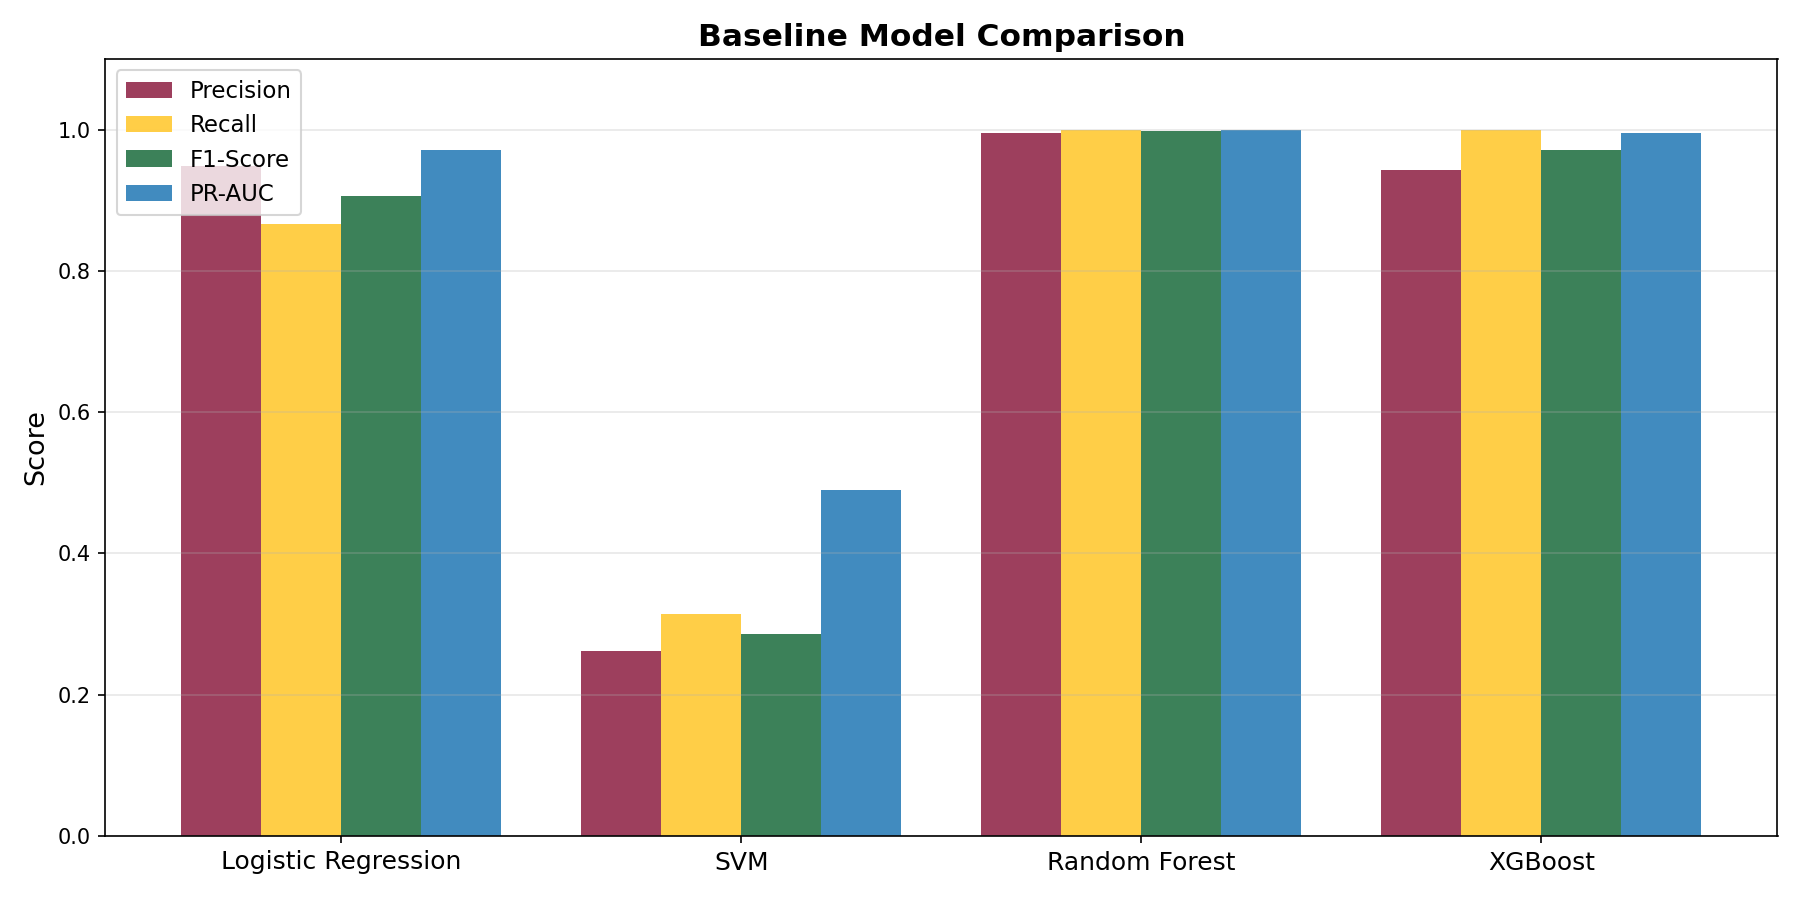
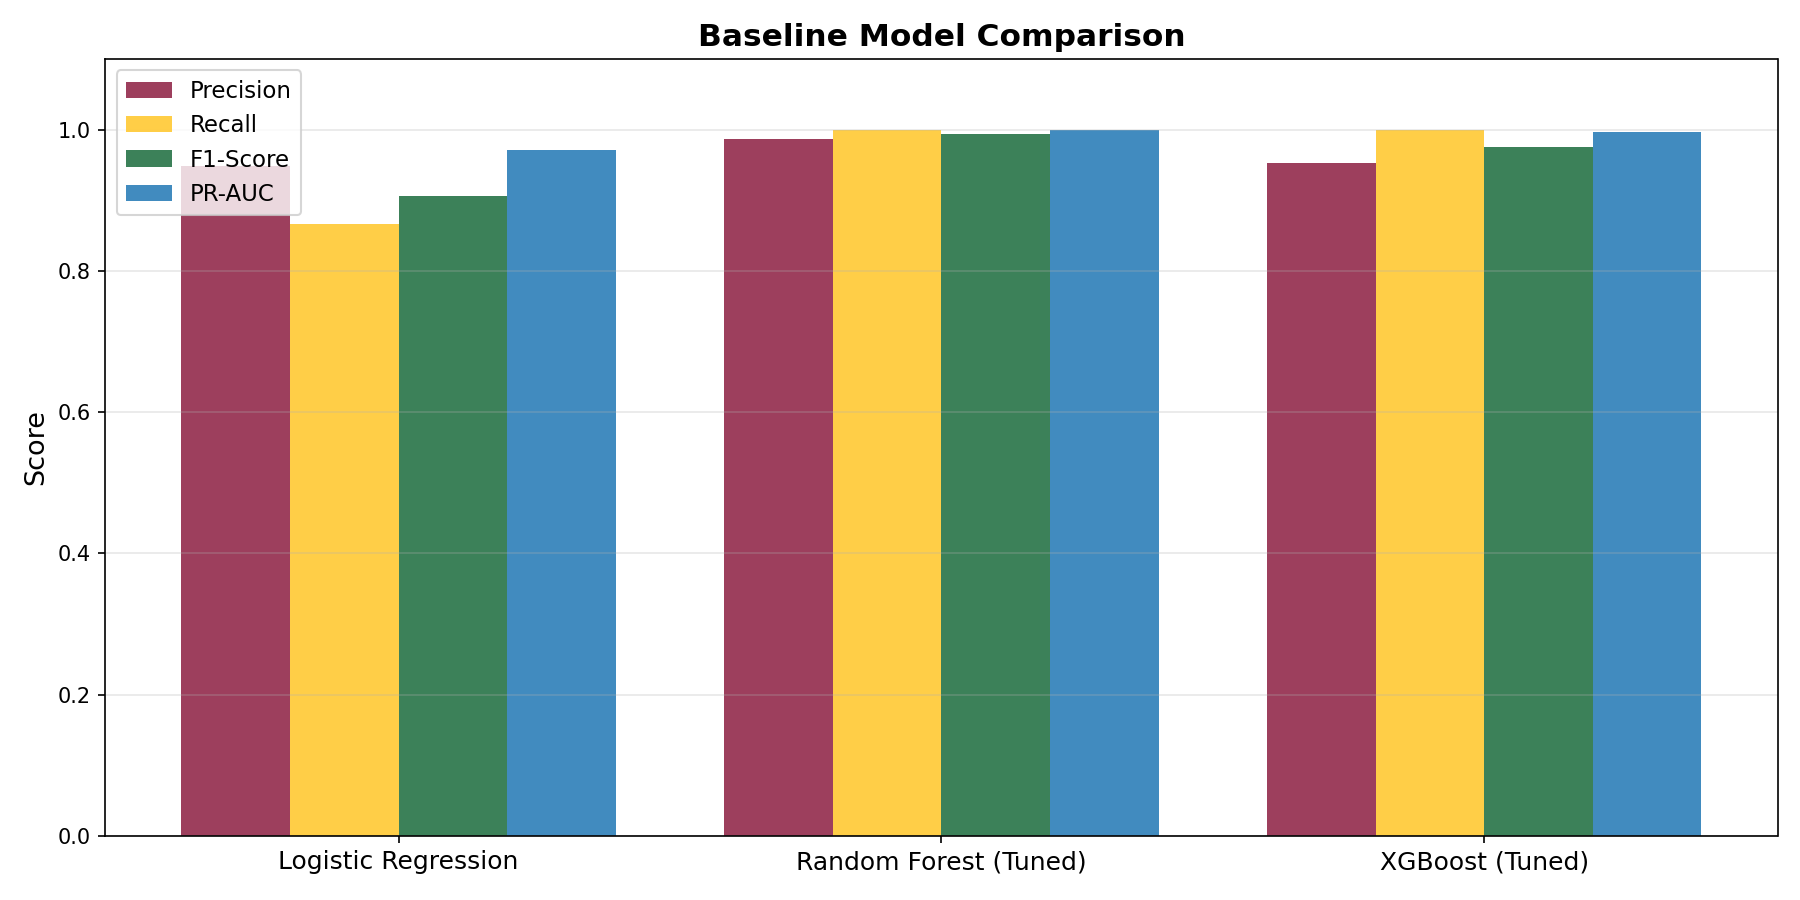
Added hyperparameter tuning, updated main.py to run full pipeline

diff --git a/models.py b/models.py
@@ -2,8 +2,9 @@
 models.py
 ----------
 Baseline supervised ML models for fraud detection.
-Logistic Regression, SVM, Random Forest, XGBoost.
+Logistic Regression, Random Forest, XGBoost.
 Evaluated using Precision, Recall, F1-Score, and PR-AUC.
+Includes hyperparameter tuning via RandomizedSearchCV.
 """
 
 import os
@@ -17,6 +18,7 @@ import matplotlib.pyplot as plt
 from sklearn.linear_model import LogisticRegression
 from sklearn.ensemble import RandomForestClassifier
 from xgboost import XGBClassifier
+from sklearn.model_selection import RandomizedSearchCV
 
 from sklearn.metrics import (
     precision_score, recall_score, f1_score,
@@ -29,11 +31,9 @@ from preprocessing import run_preprocessing
 
 warnings.filterwarnings("ignore")
 
-# ---------------------------------------------------------------
-# Output directory for plots
-# ---------------------------------------------------------------
 RESULTS_DIR = os.path.join(os.path.dirname(__file__), "results")
 os.makedirs(RESULTS_DIR, exist_ok=True)
+RANDOM_STATE = 42
 
 
 # ---------------------------------------------------------------
@@ -45,13 +45,9 @@ def evaluate_model(name, model, X_train, X_test, y_train, y_test):
     print(f"  {name}")
     print(f"{'='*60}")
 
-    # Train
     model.fit(X_train, y_train)
-
-    # Predict
     y_pred = model.predict(X_test)
 
-    # Probability scores for PR-AUC
     if hasattr(model, "predict_proba"):
         y_scores = model.predict_proba(X_test)[:, 1]
     elif hasattr(model, "decision_function"):
@@ -59,7 +55,6 @@ def evaluate_model(name, model, X_train, X_test, y_train, y_test):
     else:
         y_scores = y_pred
 
-    # Metrics
     precision = precision_score(y_test, y_pred, zero_division=0)
     recall    = recall_score(y_test, y_pred, zero_division=0)
     f1        = f1_score(y_test, y_pred, zero_division=0)
@@ -82,12 +77,84 @@ def evaluate_model(name, model, X_train, X_test, y_train, y_test):
 
 
 # ---------------------------------------------------------------
-# 2. Plot PR curves for all models
+# 2. Hyperparameter Tuning
+# ---------------------------------------------------------------
+def tune_random_forest(X_train, y_train):
+    """Tune Random Forest using RandomizedSearchCV."""
+    print("\n[INFO] Tuning Random Forest...")
+
+    param_dist = {
+        "n_estimators"      : [100, 200, 300],
+        "max_depth"         : [None, 10, 20, 30],
+        "min_samples_split" : [2, 5, 10],
+        "min_samples_leaf"  : [1, 2, 4],
+        "max_features"      : ["sqrt", "log2"],
+    }
+
+    rf = RandomForestClassifier(
+        class_weight="balanced",
+        random_state=RANDOM_STATE,
+        n_jobs=-1
+    )
+
+    search = RandomizedSearchCV(
+        rf, param_dist,
+        n_iter=10,
+        scoring="average_precision",
+        cv=3,
+        random_state=RANDOM_STATE,
+        n_jobs=-1,
+        verbose=1
+    )
+
+    search.fit(X_train, y_train)
+    print(f"  Best RF params : {search.best_params_}")
+    print(f"  Best RF PR-AUC : {search.best_score_:.4f}")
+    return search.best_estimator_
+
+
+def tune_xgboost(X_train, y_train):
+    """Tune XGBoost using RandomizedSearchCV."""
+    print("\n[INFO] Tuning XGBoost...")
+
+    param_dist = {
+        "n_estimators"  : [100, 200, 300],
+        "max_depth"     : [3, 5, 7, 9],
+        "learning_rate" : [0.01, 0.05, 0.1, 0.2],
+        "subsample"     : [0.6, 0.8, 1.0],
+        "colsample_bytree": [0.6, 0.8, 1.0],
+        "scale_pos_weight": [81],
+    }
+
+    xgb = XGBClassifier(
+        random_state=RANDOM_STATE,
+        eval_metric="aucpr",
+        verbosity=0
+    )
+
+    search = RandomizedSearchCV(
+        xgb, param_dist,
+        n_iter=10,
+        scoring="average_precision",
+        cv=3,
+        random_state=RANDOM_STATE,
+        n_jobs=-1,
+        verbose=1
+    )
+
+    search.fit(X_train, y_train)
+    print(f"  Best XGB params : {search.best_params_}")
+    print(f"  Best XGB PR-AUC : {search.best_score_:.4f}")
+    return search.best_estimator_
+
+
+# ---------------------------------------------------------------
+# 3. Plot PR curves
 # ---------------------------------------------------------------
 def plot_pr_curves(results, y_test):
     """Plot Precision-Recall curves for all models."""
     plt.figure(figsize=(10, 6))
-    colors = ["#8C1D40", "#FFC627", "#1A6B3C", "#1F77B4"]
+    colors = ["#8C1D40", "#FFC627", "#1A6B3C"]
 
     for i, res in enumerate(results):
         precision_vals, recall_vals, _ = precision_recall_curve(
@@ -113,7 +180,7 @@ def plot_pr_curves(results, y_test):
 
 
 # ---------------------------------------------------------------
-# 3. Plot comparison bar chart
+# 4. Plot comparison bar chart
 # ---------------------------------------------------------------
 def plot_comparison(summary_df):
     """Bar chart comparing all models across metrics."""
@@ -143,12 +210,14 @@ def plot_comparison(summary_df):
 
 
 # ---------------------------------------------------------------
-# 4. Plot confusion matrices
+# 5. Plot confusion matrices
 # ---------------------------------------------------------------
 def plot_confusion_matrices(results, y_test):
     """Plot confusion matrix for each model."""
-    fig, axes = plt.subplots(2, 2, figsize=(12, 10))
-    axes = axes.flatten()
+    n = len(results)
+    fig, axes = plt.subplots(1, n, figsize=(6 * n, 5))
+    if n == 1:
+        axes = [axes]
 
     for i, res in enumerate(results):
         y_pred = (res["y_scores"] >= 0.5).astype(int)
@@ -170,12 +239,11 @@ def plot_confusion_matrices(results, y_test):
 
 
 # ---------------------------------------------------------------
-# 5. Run all baseline models
+# 6. Run all baseline models
 # ---------------------------------------------------------------
 def run_baseline_models():
-    """Full pipeline: preprocess → train → evaluate → plot."""
+    """Full pipeline: preprocess → tune → train → evaluate → plot."""
 
-    # Load preprocessed data
     print("\nLoading preprocessed data...")
     prep = run_preprocessing(balance_strategy="oversample")
 
@@ -184,29 +252,30 @@ def run_baseline_models():
     y_train = prep["y_train"]
     y_test  = prep["y_test"]
 
-    # Define models
+    print(f"\n{'='*60}")
+    print("  HYPERPARAMETER TUNING")
+    print(f"{'='*60}")
+
+    # Tune RF and XGBoost
+    best_rf  = tune_random_forest(X_train, y_train)
+    best_xgb = tune_xgboost(X_train, y_train)
+
+    # Define models — LR with defaults, RF and XGBoost tuned
     models = [
         ("Logistic Regression", LogisticRegression(
-            max_iter=1000, class_weight="balanced", random_state=42
+            max_iter=1000, class_weight="balanced", random_state=RANDOM_STATE
         )),
-        ("Random Forest", RandomForestClassifier(
-            n_estimators=100, class_weight="balanced",
-            random_state=42, n_jobs=-1
-        )),
-        ("XGBoost", XGBClassifier(
-            n_estimators=100, scale_pos_weight=81,
-            random_state=42, eval_metric="aucpr",
-            verbosity=0
-        )),
+        ("Random Forest (Tuned)", best_rf),
+        ("XGBoost (Tuned)", best_xgb),
     ]
 
-    # Train and evaluate each model
+    # Train and evaluate
     results = []
     for name, model in models:
         res = evaluate_model(name, model, X_train, X_test, y_train, y_test)
         results.append(res)
 
-    # Summary table
+    # Summary
     summary_df = pd.DataFrame([
         {k: v for k, v in r.items() if k != "y_scores"}
         for r in results
@@ -217,12 +286,10 @@ def run_baseline_models():
     print(f"{'='*60}")
     print(summary_df.to_string(index=False))
 
-    # Save summary to CSV
     csv_path = os.path.join(RESULTS_DIR, "baseline_results.csv")
     summary_df.to_csv(csv_path, index=False)
     print(f"\n  [Saved] Results CSV → {csv_path}")
 
-    # Plots
     plot_pr_curves(results, y_test)
     plot_comparison(summary_df)
     plot_confusion_matrices(results, y_test)
@@ -230,8 +297,5 @@ def run_baseline_models():
     return summary_df
 
 
-# ---------------------------------------------------------------
-# Entry point
-# ---------------------------------------------------------------
 if __name__ == "__main__":
     run_baseline_models()

diff --git a/main.py b/main.py
@@ -3,61 +3,99 @@
 main.py
 --------
 End-to-end orchestration of the Banking Fraud Detection pipeline.
-
-Usage:
-    python main.py # currently, only download the BankSim dataset and perform EDA + balancing
+Runs all experiments in sequence:
+  Step 1 — Preprocessing + SMOTE-ENN + Time-based split
+  Step 2 — EDA visualizations
+  Step 3 — E1: Baseline ML models
+  Step 4 — E2: Graph construction + feature extraction
+  Step 5 — E2: Hybrid models
+  Step 6 — E4: Standalone GraphSAGE
+  Step 7 — E3: GraphSAGE embeddings → RF + MLP
+  Step 8 — E5: Clustering analysis
 """
 
-import argparse
-import sys
 import warnings
-
-import matplotlib
-matplotlib.use("Agg")  # non-interactive backend for saving plots
-
 warnings.filterwarnings("ignore")
 
-from preprocessing import run_preprocessing
-
-
-def parse_args() -> argparse.Namespace:
-    parser = argparse.ArgumentParser(
-        description="Banking Fraud Detection — Baseline vs Graph-Enhanced Models"
-    )
-    
-    parser.add_argument(
-        "--data",
-        type=str,
-        default=None,
-        help="Path to BankSim CSV file (default: auto-download)",
-    )
-    
-    parser.add_argument(
-        "--balance",
-        type=str,
-        choices=["oversample", "undersample"],
-        default="oversample",
-        help="Class balancing strategy (default: oversample)",
-    )
-    
-    return parser.parse_args()
-
-
-def main() -> None:
-    args = parse_args()
-
+def main():
     print("\n" + "=" * 70)
     print("   BANKING FRAUD DETECTION PIPELINE")
-    print("   Baseline (Tabular) vs Graph-Enhanced Models")
+    print("   Baseline (Tabular) vs Graph-Enhanced vs GNN Models")
     print("=" * 70)
 
     # ---------------------------------------------------------------
     # Step 1: Preprocessing
     # ---------------------------------------------------------------
-    prep = run_preprocessing(
-        filepath=args.data,
-        balance_strategy=args.balance,
-    )
+    print("\n[STEP 1] Preprocessing + SMOTE-ENN + Time-based Split")
+    from preprocessing import run_preprocessing
+    prep = run_preprocessing(balance_strategy="smoteenn")
+    print(" Preprocessing complete")
+
+    # ---------------------------------------------------------------
+    # Step 2: EDA
+    # ---------------------------------------------------------------
+    print("\n[STEP 2] Exploratory Data Analysis")
+    from eda import run_eda
+    run_eda()
+    print(" EDA complete")
+
+    # ---------------------------------------------------------------
+    # Step 3: E1 Baseline Models
+    # ---------------------------------------------------------------
+    print("\n[STEP 3] E1 — Baseline ML Models")
+    from models import run_baseline_models
+    baseline_results = run_baseline_models()
+    print(" Baseline models complete")
+
+    # ---------------------------------------------------------------
+    # Step 4: E2 Graph Construction
+    # ---------------------------------------------------------------
+    print("\n[STEP 4] E2 — Graph Construction + Feature Extraction")
+    from graph import run_graph_pipeline
+    run_graph_pipeline()
+    print(" Graph pipeline complete")
+
+    # ---------------------------------------------------------------
+    # Step 5: E2 Hybrid Models
+    # ---------------------------------------------------------------
+    print("\n[STEP 5] E2 — Hybrid Models (Graph + Tabular)")
+    from hybrid_models import run_hybrid_models
+    run_hybrid_models()
+    print(" Hybrid models complete")
+
+    # ---------------------------------------------------------------
+    # Step 6: E4 Standalone GraphSAGE
+    # ---------------------------------------------------------------
+    print("\n[STEP 6] E4 — Standalone GraphSAGE")
+    from graphsage import run_graphsage
+    run_graphsage()
+    print(" GraphSAGE complete")
+
+    # ---------------------------------------------------------------
+    # Step 7: E3 Embedding Models
+    # ---------------------------------------------------------------
+    print("\n[STEP 7] E3 — GraphSAGE Embeddings → RF + MLP")
+    from embedding_models import run_embedding_models
+    run_embedding_models()
+    print(" Embedding models complete")
+
+    # ---------------------------------------------------------------
+    # Step 8: E5 Clustering
+    # ---------------------------------------------------------------
+    print("\n[STEP 8] E5 — Unsupervised Clustering")
+    from clustering import run_clustering
+    run_clustering()
+    print(" Clustering complete")
+
+    # ---------------------------------------------------------------
+    # Done
+    # ---------------------------------------------------------------
+    print("\n" + "=" * 70)
+    print("   PIPELINE COMPLETE")
+    print("   All results saved to results/")
+    print("   GitHub: https://github.com/LuaanNguyen/fraud-detection")
+    print("=" * 70)
+
 
 if __name__ == "__main__":
     main()
